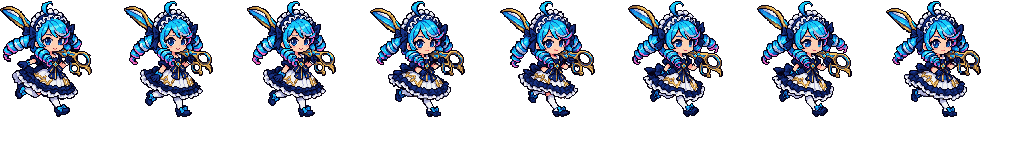
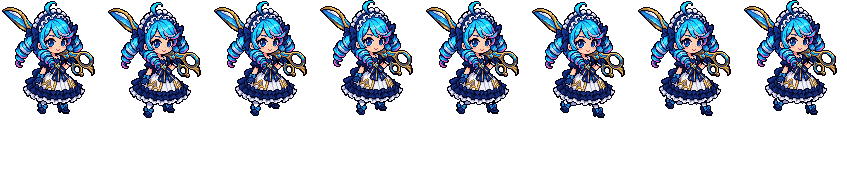
Gwen run: the design's own skip, the legs swapping each half cycle, the whole figure hopping (Codex drew one pose eight times - 「没有格温跳动的感觉 左右腿也不明显的交换」)

diff --git a/tools/art/rig_gwen_hd.py b/tools/art/rig_gwen_hd.py
@@ -2,7 +2,9 @@
 """league_gwen redone at PPU 2.84 (the user, 2026-10-25: 「接下来可以优化格温 格温感觉只要利用PPU调高像素 还有眼睛那里改一下
 就可以了」): the design is Codex's v2 picture read as drawn (tools/art/design_gwen_hd.py, 93 x 116), every action Codex's
 whole-frame redraw mended onto it (tools/art/casts_gwen_hd.py: her scissors full size and always in her right hand, each
-frame placed on the design's grid). The standing idle_base is the design itself; the idle and the ban/pick card are cut
+frame placed on the design's grid). The run is the design's own skip (run_frames): Codex drew one pose eight times, the
+same foot always kicked back (the user: 「跑步有点不对啊」「没有格温跳动的感觉 左右腿也不明显的交换」). The standing
+idle_base is the design itself; the idle and the ban/pick card are cut
 from the actions by tools/art/hero_reels.py. Her snips and the dash's mist stay baked as before
 (assets/source/native/gwen_bake.json, Rig.bake), the snips moved with the blade's tip: the old frames' tips were 42 / 39
 / 40 game px in front of her (attack frame 4, Snip Snip!'s frames 3 and 7, its frame 12), the new ones 56 / 44 / 46.5.
@@ -98,6 +100,38 @@ def on_grid(rig, d, x, y):
     return can
 
 
+# the run: her legs under the skirt (design rows from LEG_CUT, these columns) cut out whole and moved - translation only;
+# each half cycle one leg pushes off and kicks up (the near one mostly up: kicked back it would cover the far one), the
+# other lands and reaches on, the whole figure hops and the body sinks over the legs when she lands; the legs swap
+# every half cycle. Per frame: (hop up, body sink, kicking leg (dx, dy), planted leg (dx, dy)), design squares.
+LEG_CUT = 103
+LEGS = {"far": (32, 46), "near": (54, 73)}
+SKIP = {"near": [(0, 3, (-2, 0), (1, 0)), (-4, 0, (-3, -5), (1, 0)), (-8, 0, (-4, -8), (2, -1)), (-4, 1, (-3, -4), (2, 0))],
+        "far": [(0, 3, (-4, 0), (3, 0)), (-4, 0, (-6, -5), (3, 0)), (-8, 0, (-7, -8), (5, -1)), (-4, 1, (-5, -4), (4, 0))]}
+
+
+def run_frames(rig):
+    d = rig.D.d0
+    legs = {}
+    for name, (x0, x1) in LEGS.items():
+        m = np.zeros(d.shape[:2], bool)
+        m[LEG_CUT:, x0:x1] = True
+        legs[name] = m & (d[..., 3] > 0)
+    body = d.copy()
+    body[legs["far"] | legs["near"]] = 0
+    out = []
+    for kick, plant in (("near", "far"), ("far", "near")):
+        for hop, sink, kd, pd in SKIP[kick]:
+            can = rig.canvas()
+            for name, (dx, dy) in ((kick, kd), (plant, pd)):
+                ys, xs = np.nonzero(legs[name])
+                can[ys + dy + hop + rig.oy, xs + dx + rig.ox] = d[ys, xs]
+            ys, xs = np.nonzero(body[..., 3] > 0)
+            can[ys + sink + hop + rig.oy, xs + rig.ox] = body[ys, xs]      # the body over the legs
+            out.append(can)
+    return out
+
+
 def frames(rig):
     sheet = R.sheet_of(HERO)
     casts = CG.placed()
@@ -108,6 +142,10 @@ def frames(rig):
         n = len(sheet[tag])
         if tag == "idle_base":
             fr = [on_grid(rig, rig.D.d0, 0, 0) for _ in range(n)]
+        elif tag == "run":
+            fr = run_frames(rig)
+            if len(fr) != n:
+                sys.exit(f"run: {len(fr)} frames, the sheet has {n}")
         else:
             fr = [on_grid(rig, *casts[f"{tag}_{k + 1}"]) for k in range(n)]
             if tag == "hit":
